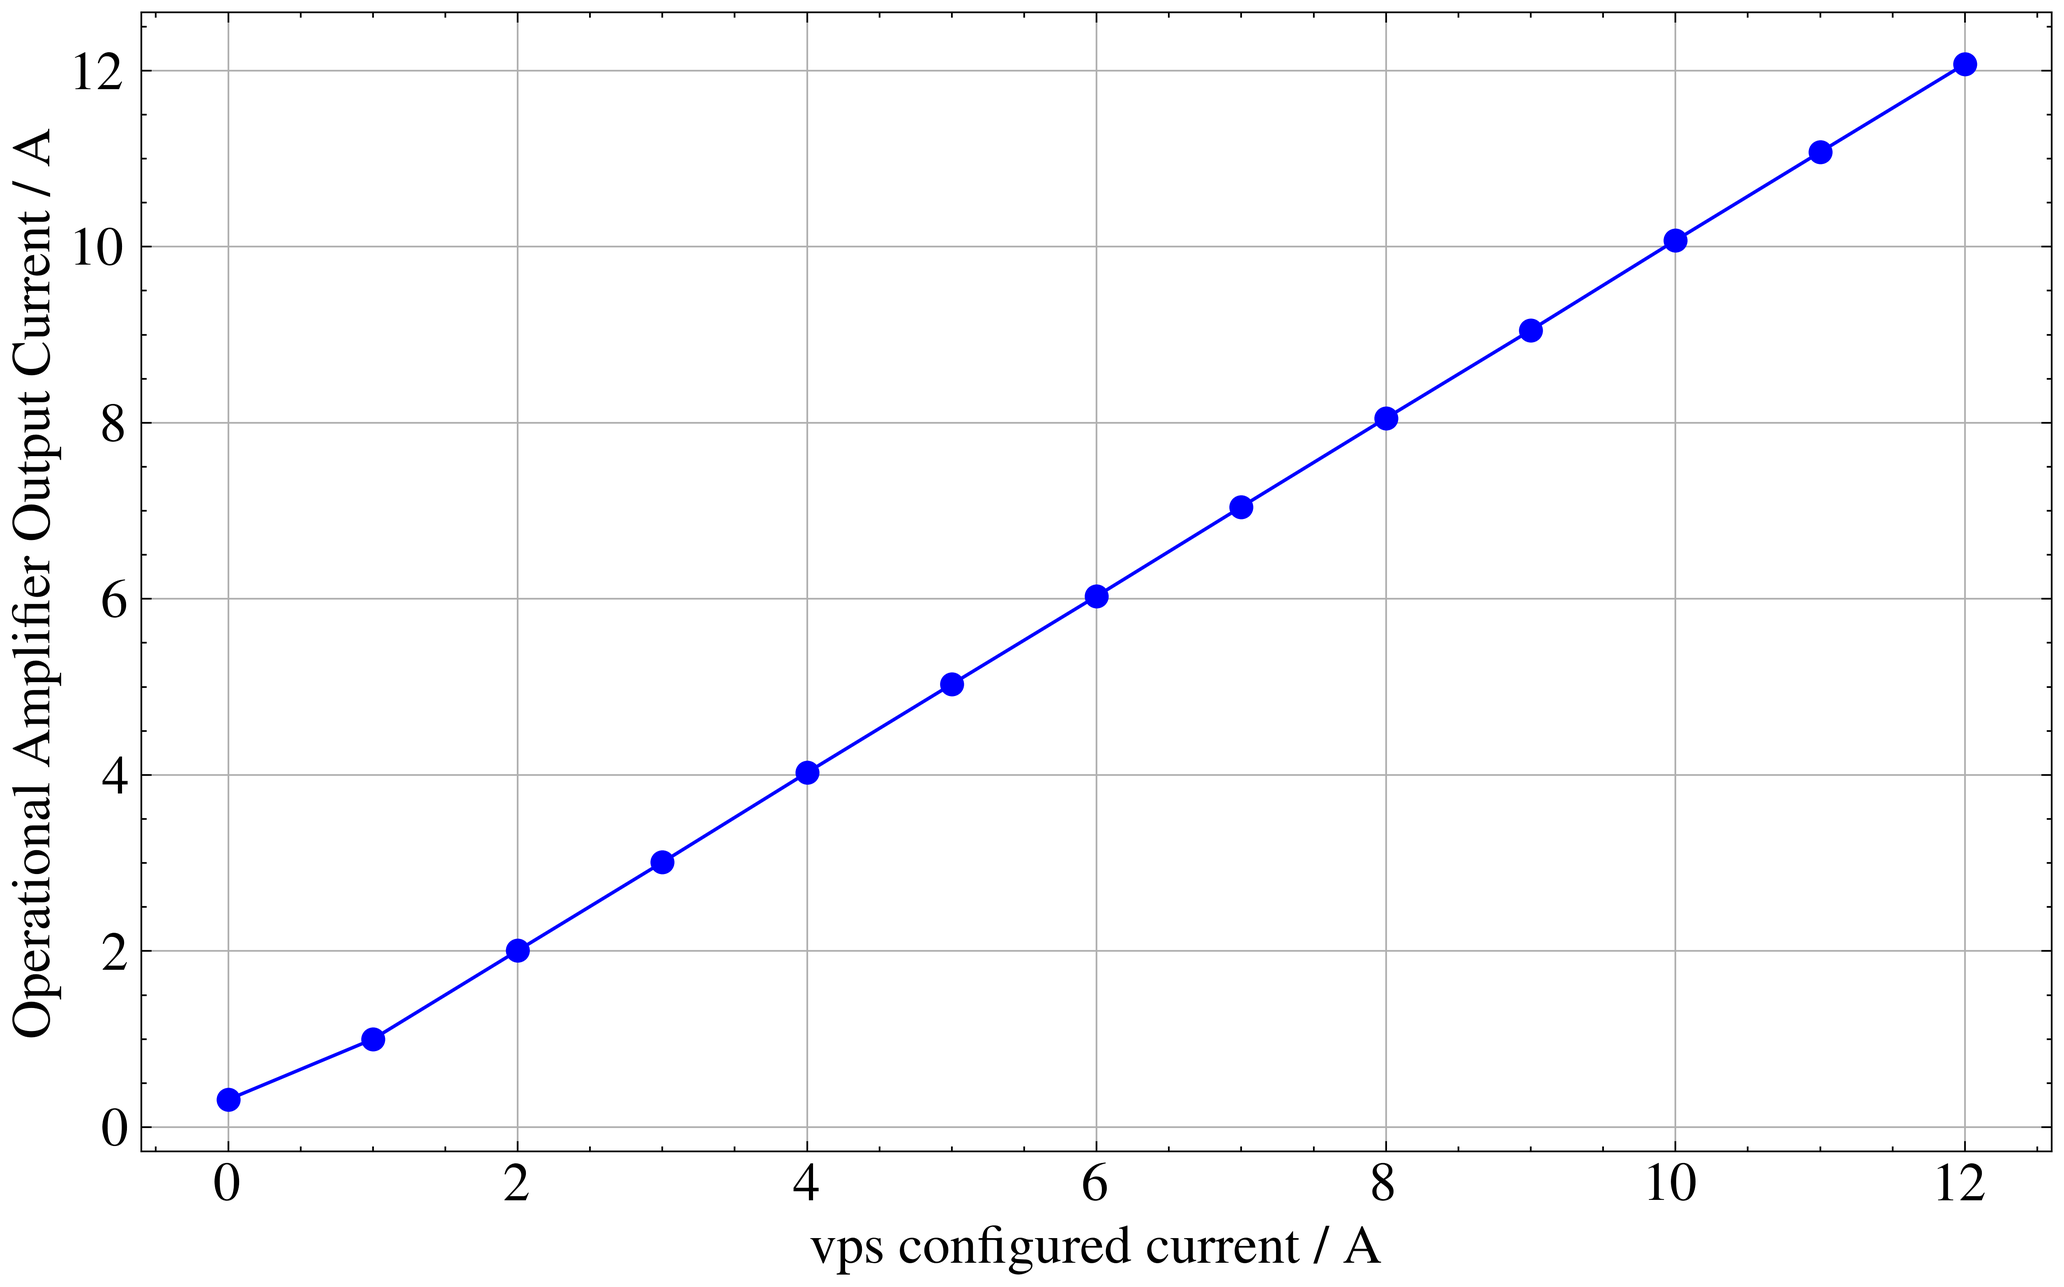
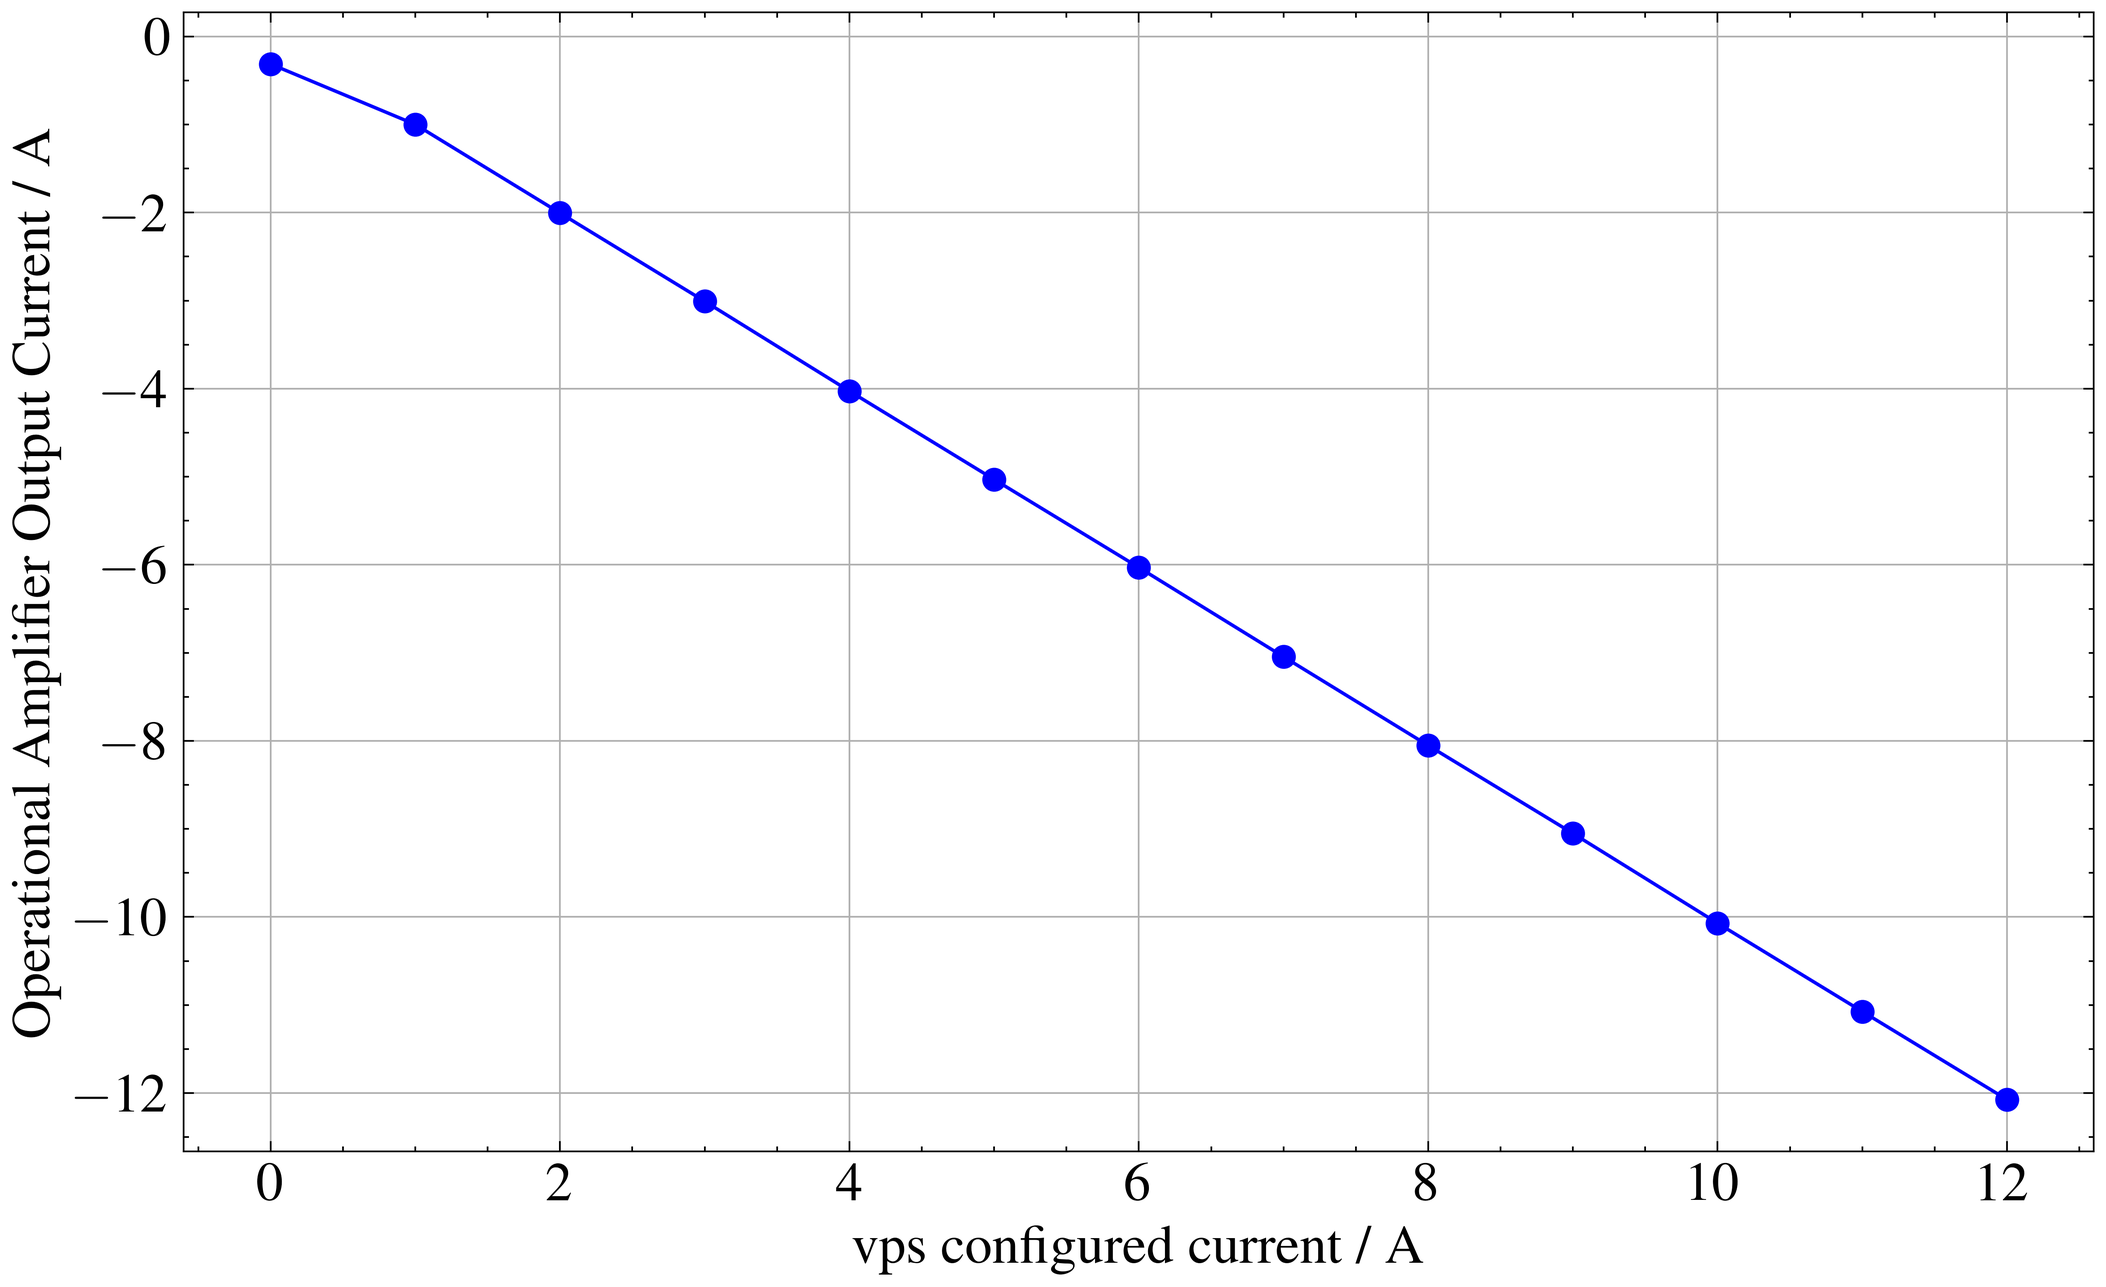
save

diff --git a/src/sections/consideration/consideration.tex b/src/sections/consideration/consideration.tex
@@ -3,4 +3,52 @@
 
 \section{考察}
 
+\subsection{アモルファス太陽電池とシリコンフォトダイオードの電流出力}
+アモルファス太陽電池の分光感度特性は、波長が約\SI{400}{\nano m}から約\SI{800}{\nano m}までの光を吸収し、一般にピークは\SI{500}{nm}から\SI{600}{nm}の範囲にある\cite{evaluation-photo,amorfous-si}(図\ref{subfig:bunkoukando})。
+シリコンフォトダイオードの分光感度特性は、一般に\SI{400}{\nano m}から約\SI{1000}{\nano m}までの光を吸収し、ピークは\SI{800}{nm}から\SI{900}{nm}の範囲にある(図\ref{subfig:solarcell})。
+\input{src/figures/consi1/bunkoukando.tex}
+蛍光灯、LEDライト、MAGライト(白色電球)のスペクトルは、次の図\ref{fig:wave-inte}のようになっている\cite{spectra}。
+\input{src/figures/consi1/wave-inte.tex}
+このスペクトルと分光感度特性と表\ref{tab:exp1}を比較する。
+まずアモルファス太陽電池についてはLEDライト照射時に最大となっている。
+これは、アモルファス太陽電池の分光感度特性のピークが\SI{500}{nm}前後にピークがあり、LEDライトのスペクトルのピークは\SI{450}{nm}前後にあるためより効率的に光を吸収していると考えられる。
+一方でシリコンフォトダイオードは、MAGライトが最大となっている。
+これはシリコンフォトダイオードの分光感度が\SI{400}{nm}から\SI{1000}{nm}の範囲で鈍いピークをもっており、MAGライトのスペクトルも同様に\SI{400}{nm}から\SI{800}{nm}の範囲で幅広い鈍いピークをもっているためと考えられる。
+
+\subsection{VPSの出力特性}\label{subsec:consi-vps}
+図\ref{fig:exp2}に近似曲線を当てはめたものを図\ref{fig:vps-dmm-with-fit}に示す。
+近似曲線の式は$A_{real}=0.996A_{conf}+0.024$となった。
+ほとんど設定値と実測値は一致していると言えるが、表\ref{tab:exp2}より\SI{0.4}{A}未満では\SI{0.33}{A}でほぼ一定であり設定値と計測値がずれている。
+したがって、これらを除いて\SI{0.4}{A}以上の範囲で近似曲線は$A_{real}=1.00A_{conf}-0.010$となり、設定値と実測値がほぼ一致した。
+以上より、\SI{0.4}{A}以上では上記の近似曲線によって設定値と実測値を結びつけることができ、\SI{0.4}{A}未満では設定値と実測値がずれており約\SI{0.3}{A}になっていると考えられる。
+以後はDMMによる計測結果が正しいとして、設定電流に対して以上のような出力が得られると考える。
+\input{src/figures/consi2/vps-dmm-with-fit.tex}
+
+\subsection{オペアンプの出力特性}
+まず回路図\ref{fig:exp3-circuit}で$R=\SI{10}{k\ohm}$のときの結果、表\ref{tab:exp3-10k}について考える。
+\ref{subsec:consi-vps}よりVPSの実際の出力電流とオペアンプの出力の関係は図\ref{fig:10k-vps-op-amp-with-fit}のようになる。
+この図より、$R=\SI{10}{k\ohm}$のときオペアンプは入力に対して-1倍した出力をしている。
+したがって図\ref{fig:exp3-circuit}では、入力に対して$-R_0/R = -\SI{10}{k\ohm}/R$倍した出力が得られると考えられる。
+\input{src/figures/consi3/10k-vps-op-amp-with-fit.tex}
+
+次に$R=\SI{1}{k\ohm}$とした時を考える。
+VPSの実際の出力電流に対してのオペアンプの出力電圧の図は図\ref{fig:1k-vps-op-amp-with-fit}のようになる。
+\input{src/figures/consi3/1k-vps-op-amp-with-fit.tex}
+$R=\SI{10}{k\ohm}$の考察から入力に対して$-R_0/R = -\SI{10}{k\ohm}/R$倍した出力が得られると考えられる。
+一方で図\ref{subfig:exp3-10k}や表\ref{tab:exp3-1k}から入力が\SI{1.6}{A}以上では出力が\SI{-13.182}{A}から\SI{-13.180}{A}の範囲でほぼ一定値となっている。
+これは、オペアンプの出力電圧$V$が負電源$V_{-}$と正電源電圧$V_{+}$の範囲、$V_- \leq V \leq V_+$しか出力できない\cite{Kossy_2024,renesas}ためである。
+また、VPSの設定電流が\SI{0}{A}と\SI{0.2}{A}のときにはオペアンプの出力電圧が入力電流の-10倍程度からはズレている。
+この原因として考えられるのは、\ref{subsec:consi-vps}からVPSの出力が安定していない可能性があげられる。
+VPSの設定値が\SI{0.4}{A}以下の場合に実際の出力が\SI{0.3}{A}程度になっているとしたが、オペアンプの動作が正しいとすれば出力電流は\SI{0.19}{A}程度になっている可能性がある。
+
+これらの範囲を除いて、VPSの設定電流が\SI{0.4}{A}から\SI{1.2}{A}の範囲で近似曲線を求めると、$A_{op-out}=-10.1A_{real}+\SI{1.71E-3}{}$となった。
+この範囲では$R=\SI{10}{k\ohm}$のときと同様に入力に対して$-R_0/R = -\SI{10}{k\ohm}/R$倍した出力が得られている。
+
+また、オペアンプは理想的には差動入力端子間の電圧は\SI{0}{V}であるが、実際には\SI{0}{V}にならないため、この差動入力端子間の電圧をオフセット電圧という。
+このオフセット電圧は$R$に反比例する成分として図\ref{fig:10k-vps-op-amp-with-fit}と$R=\SI{1}{k\ohm}$のときは、$A_{op-out}=-10.1A_{real}+\SI{1.71E-3}{}$の$y$切片を抵抗で割った値から得られる。
+$\SI{10}{k\ohm}$のときは\SI{9.78}{\micro V}、\SI{1}{k\ohm}のときは\SI{1.71}{\micro V}である。
+
+\subsection{積分回路のボード線図と不安定性}
+
+
 \end{document}

diff --git a/src/scripts/exp3-consi.py b/src/scripts/exp3-consi.py
@@ -1,0 +1,90 @@
+import numpy as np
+import matplotlib.pyplot as plt
+import scienceplots
+from sklearn.linear_model import LinearRegression
+
+# Use the desired style and settings
+plt.style.use(['science', 'ieee'])
+plt.rcParams["font.family"] = "Times New Roman"
+plt.rcParams['mathtext.fontset'] = 'stix'
+plt.rcParams["font.size"] = 16
+
+vps_setting_current = [0, 1, 2, 3, 4, 5, 6, 7, 8, 9, 10, 11, 12]
+vps_output_current = [0.3355, 0.9963, 1.9934, 2.9887, 4.0003, 4.9968, 5.9886, 6.9949, 7.9953, 8.9864, 9.999, 10.994, 11.987]
+op_amp_output_current = [-0.31292, -0.9989, -2.0048, -3.0077, -4.027, -5.0307, -6.0304, -7.0444, -8.0524, -9.0509, -10.071, -11.074, -12.074]
+vps_output_current = np.array(vps_output_current).reshape(-1, 1)
+op_amp_output_current = np.array(op_amp_output_current)
+
+# Linear regression
+model = LinearRegression()
+model.fit(vps_output_current, op_amp_output_current)
+dmm_pred = model.predict(vps_output_current)
+slope = model.coef_[0]
+intercept = model.intercept_
+
+
+plt.figure(figsize=(10, 6))
+plt.plot(vps_output_current, op_amp_output_current, marker='o', linestyle='-', color='b')
+plt.plot(vps_output_current, dmm_pred, linestyle='--', color='r', label=f'$A_{{real}} = {slope:.3f}A_{{conf}} + {intercept*1e3:.3f}\\times 10^{{-3}}$')
+
+plt.xlabel('VPS actual current / A')
+plt.ylabel('Op-amp output current / A')
+plt.legend()
+plt.grid(True)
+
+plt.savefig('../figures/consi3/10k-vps-op-amp-with-fit.png')
+plt.close()
+
+
+vps_output_current_2 = [0.3355, 0.33294, 0.39245, 0.58391, 0.78972, 0.9963, 1.1853, 1.3906, 1.5952, 1.7875, 1.9934]
+op_amp_output_current_2 = [-1.9330, -1.9170, -3.9645, -5.9045, -7.9931, -10.065, -11.988, -13.170, -13.182, -13.181, -13.180]
+vps_output_current = np.array(vps_output_current_2).reshape(-1, 1)
+op_amp_output_current = np.array(op_amp_output_current_2)
+
+# Linear regression
+model = LinearRegression()
+model.fit(vps_output_current, op_amp_output_current)
+dmm_pred = model.predict(vps_output_current)
+slope = model.coef_[0]
+intercept = model.intercept_
+
+
+plt.figure(figsize=(10, 6))
+plt.plot(vps_output_current, op_amp_output_current, marker='o', linestyle='-', color='b')
+plt.plot(vps_output_current, dmm_pred, linestyle='--', color='r', label=f'$A_{{real}} = {slope:.3f}A_{{conf}} + {intercept:.3f}$')
+
+plt.xlabel('VPS actual current / A')
+plt.ylabel('Op-amp output current / A')
+plt.legend()
+plt.grid(True)
+
+plt.savefig('../figures/consi3/1k-vps-op-amp-with-fit.png')
+plt.close()
+
+vps_output_current_2 = [0.3355, 0.33294, 0.39245, 0.58391, 0.78972, 0.9963, 1.1853, 1.3906, 1.5952, 1.7875, 1.9934]
+op_amp_output_current_2 = [-1.9330, -1.9170, -3.9645, -5.9045, -7.9931, -10.065, -11.988, -13.170, -13.182, -13.181, -13.180]
+vps_output_current_2 = vps_output_current_2[2:-4]
+op_amp_output_current_2 = op_amp_output_current_2[2:-4]
+vps_output_current = np.array(vps_output_current_2).reshape(-1, 1)
+op_amp_output_current = np.array(op_amp_output_current_2)
+
+
+# Linear regression
+model = LinearRegression()
+model.fit(vps_output_current, op_amp_output_current)
+dmm_pred = model.predict(vps_output_current)
+slope = model.coef_[0]
+intercept = model.intercept_
+
+
+plt.figure(figsize=(10, 6))
+plt.plot(vps_output_current, op_amp_output_current, marker='o', linestyle='-', color='b')
+plt.plot(vps_output_current, dmm_pred, linestyle='--', color='r', label=f'$A_{{real}} = {slope:.3f}A_{{conf}} + {intercept:.3f}$')
+
+plt.xlabel('VPS actual current / A')
+plt.ylabel('Op-amp output current / A')
+plt.legend()
+plt.grid(True)
+
+plt.savefig('../figures/consi3/1k-vps-op-amp-with-fit-small.png')
+plt.close()

diff --git a/src/tables/exp1.tex b/src/tables/exp1.tex
@@ -1,13 +1,20 @@
+%Please add the following packages if necessary:
+%\usepackage{booktabs, multirow} % for borders and merged ranges
+%\usepackage{soul}% for underlines
+%\usepackage[table]{xcolor} % for cell colors
+%\usepackage{changepage,threeparttable} % for wide tables
+%If the table is too wide, replace \begin{table}[!htp]...\end{table} with
+%\begin{adjustwidth}{-2.5 cm}{-2.5 cm}\centering\begin{threeparttable}[!htb]...\end{threeparttable}\end{adjustwidth}
 \begin{table}[!htp]\centering
-	\caption{さまざまな光源下における太陽電池とフォトダイオードの電流・電圧}\label{tab:exp1}
+	\caption{さまざまな光源下での電流・電圧}\label{tab:exp1}
 	\scriptsize
-	\begin{tabular}{cccc}\toprule
-		\multicolumn{2}{c}{太陽電池} & \multicolumn{2}{c}{フォトダイオード}                             \\\cmidrule{1-4}
-		電流 / \si{A}              & 電圧 / \si{V}                  & 電流 / \si{A} & 電圧 / \si{V} \\\midrule
-		0.00017                  & 2.7621                       & 0.00002     & 0.30601     \\
-		0.00003                  & 1.9265                       & 0.00001     & 0.23010     \\
-		0.00127                  & 3.2019                       & 0.00037     & 0.46318     \\
-		0.00038                  & 2.9753                       & 0.00769     & 0.58717     \\
+	\begin{tabular}{ccccc}\toprule
+		       & \multicolumn{2}{c}{太陽電池} & \multicolumn{2}{c}{フォトダイオード}                     \\\cmidrule{2-5}
+		       & A                        & V                            & A       & V       \\\midrule
+		蛍光灯下   & 0.00017                  & 2.7621                       & 0.00002 & 0.30601 \\
+		暗時     & 0.00003                  & 1.9265                       & 0.00001 & 0.23010 \\
+		LEDライト & 0.00127                  & 3.2019                       & 0.00037 & 0.46318 \\
+		MAGライト & 0.00038                  & 2.9753                       & 0.00769 & 0.58717 \\
 		\bottomrule
 	\end{tabular}
 \end{table}

diff --git a/src/tables/exp3-10k.tex b/src/tables/exp3-10k.tex
@@ -10,19 +10,19 @@
 	\scriptsize
 	\begin{tabular}{cc}\toprule
 		VPSの設定電流 / \si{A} & オペアンプの出力電流 / \si{A} \\\midrule
-		0                 & 0.31292             \\
-		1                 & 0.9989              \\
-		2                 & 2.0048              \\
-		3                 & 3.0077              \\
-		4                 & 4.0270              \\
-		5                 & 5.0307              \\
-		6                 & 6.0304              \\
-		7                 & 7.0444              \\
-		8                 & 8.0524              \\
-		9                 & 9.0509              \\
-		10                & 10.071              \\
-		11                & 11.074              \\
-		12                & 12.074              \\
+		0                 & -0.31292            \\
+		1                 & -0.9989             \\
+		2                 & -2.0048             \\
+		3                 & -3.0077             \\
+		4                 & -4.0270             \\
+		5                 & -5.0307             \\
+		6                 & -6.0304             \\
+		7                 & -7.0444             \\
+		8                 & -8.0524             \\
+		9                 & -9.0509             \\
+		10                & -10.071             \\
+		11                & -11.074             \\
+		12                & -12.074             \\
 		\bottomrule
 	\end{tabular}
 \end{table}

diff --git a/src/tables/exp3-1k.tex b/src/tables/exp3-1k.tex
@@ -10,17 +10,17 @@
 	\scriptsize
 	\begin{tabular}{cc}\toprule
 		VPSの設定電流 / A & オペアンプの出力電流 / A \\\midrule
-		0            & 1.9330         \\
-		0.2          & 1.9170         \\
-		0.4          & 3.9645         \\
-		0.6          & 5.9045         \\
-		0.8          & 7.9931         \\
-		1            & 10.065         \\
-		1.2          & 11.988         \\
-		1.4          & 13.170         \\
-		1.6          & 13.182         \\
-		1.8          & 13.181         \\
-		2            & 13.180         \\
+		0            & -1.9330        \\
+		0.2          & -1.9170        \\
+		0.4          & -3.9645        \\
+		0.6          & -5.9045        \\
+		0.8          & -7.9931        \\
+		1            & -10.065        \\
+		1.2          & -11.988        \\
+		1.4          & -13.170        \\
+		1.6          & -13.182        \\
+		1.8          & -13.181        \\
+		2            & -13.180        \\
 		\bottomrule
 	\end{tabular}
 \end{table}

diff --git a/src/scripts/exp2-consi.py b/src/scripts/exp2-consi.py
@@ -13,11 +13,13 @@ plt.rcParams["font.size"] = 16
 vps_current = np.array([0, 0.2, 0.4, 0.5, 0.6, 0.7, 0.8, 0.9, 1.0, 1.1, 1.2, 1.3, 1.4, 1.5, 1.6, 1.8, 2, 3, 4, 5, 6, 7, 8, 9, 10, 11, 12]).reshape(-1, 1)
 dmm_measured = np.array([0.3355, 0.33294, 0.39245, 0.48868, 0.58391, 0.69338, 0.78972, 0.88524, 0.9963, 1.0896, 1.1853, 1.2943, 1.3906, 1.4856, 1.5952, 1.7875, 1.9934, 2.9887, 4.0003, 4.9968, 5.9886, 6.9949, 7.9953, 8.9864, 9.999, 10.994, 11.987])
 
+vps_current = vps_current[2:]
+dmm_measured = dmm_measured[2:]
+
 # Linear regression
 model = LinearRegression()
 model.fit(vps_current, dmm_measured)
 dmm_pred = model.predict(vps_current)
-
 slope = model.coef_[0]
 intercept = model.intercept_
 
@@ -33,7 +35,7 @@ plt.legend()
 plt.grid(True)
 
 # Save figure
-plt.savefig('../figures/consi2/vps-dmm-with-fit.png')
+plt.savefig('../figures/consi2/vps-dmm-with-fit-wo-offset.png')
 
 # Show plot
 plt.show()

diff --git a/src/figures/consi1/bunkoukando.tex b/src/figures/consi1/bunkoukando.tex
@@ -1,0 +1,14 @@
+\begin{figure}
+	\centering
+	\begin{subfigure}{0.3\linewidth}
+		\centering
+		\includegraphics[width=0.9\linewidth]{src/figures/consi1/photodiode.png}
+		\subcaption{フォトダイオードの分光感度特性\cite{amorfous-si}}\label{subfig:bunkoukando}
+	\end{subfigure}
+	\begin{subfigure}{0.6\linewidth}
+		\centering
+		\includegraphics[width=0.9\linewidth]{src/figures/consi1/solarcell.png}
+		\subcaption{太陽電池の分光感度特性\cite{amorfous-si}}\label{subfig:solarcell}
+	\end{subfigure}
+	\caption{太陽電池とフォトダイオードの分光感度特性}\label{fig:bunkoukando}
+\end{figure}

diff --git a/src/scripts/exp3-1k.py b/src/scripts/exp3-1k.py
@@ -1,3 +1,4 @@
+import numpy as np
 import matplotlib.pyplot as plt
 import scienceplots
 
@@ -9,6 +10,8 @@ plt.rcParams["font.size"] = 16
 # データの定義
 vps_setting_current = [0, 0.2, 0.4, 0.6, 0.8, 1, 1.2, 1.4, 1.6, 1.8, 2]
 resistor_current = [1.9330, 1.9170, 3.9645, 5.9045, 7.9931, 10.065, 11.988, 13.170, 13.182, 13.181, 13.180]
+resistor_current = np.array(resistor_current)
+resistor_current = -resistor_current
 
 # グラフの作成
 plt.figure(figsize=(10, 6))

diff --git a/src/scripts/exp3-10k.py b/src/scripts/exp3-10k.py
@@ -1,3 +1,4 @@
+import numpy as np
 import matplotlib.pyplot as plt
 import scienceplots
 
@@ -9,6 +10,7 @@ plt.rcParams["font.size"] = 16
 # データの定義
 vps_setting_current = [0, 1, 2, 3, 4, 5, 6, 7, 8, 9, 10, 11, 12]
 op_amp_output_current = [0.31292, 0.9989, 2.0048, 3.0077, 4.0270, 5.0307, 6.0304, 7.0444, 8.0524, 9.0509, 10.071, 11.074, 12.074]
+op_amp_output_current = -np.array(op_amp_output_current)
 
 # グラフの作成
 plt.figure(figsize=(10, 6))

diff --git a/src/figures/consi3/1k-vps-op-amp-with-fit.tex b/src/figures/consi3/1k-vps-op-amp-with-fit.tex
@@ -1,0 +1,5 @@
+\begin{figure}[!htb]
+    \centering
+    \includegraphics[width=0.6\linewidth]{src/figures/consi3/1k-vps-op-amp-with-fit.png}
+    \caption{$R=\SI{1}{k\ohm}$の時のオペアンプの出力特性}\label{fig:1k-vps-op-amp-with-fit}
+\end{figure}

diff --git a/src/figures/consi3/10k-vps-op-amp-with-fit.tex b/src/figures/consi3/10k-vps-op-amp-with-fit.tex
@@ -1,0 +1,5 @@
+\begin{figure}[!htb]
+	\centering
+	\includegraphics[width=0.6\linewidth]{src/figures/consi3/10k-vps-op-amp-with-fit.png}
+	\caption{$R=\SI{10}{k\ohm}$の時のオペアンプの出力特性}\label{fig:10k-vps-op-amp-with-fit}
+\end{figure}

diff --git a/src/figures/consi1/wave-inte.tex b/src/figures/consi1/wave-inte.tex
@@ -1,0 +1,5 @@
+\begin{figure}
+	\centering
+	\includegraphics[width=0.6\linewidth]{src/figures/consi1/wave-inte.png}
+	\caption{さまざまな光におけるスペクトル}\label{fig:wave-inte}
+\end{figure}
